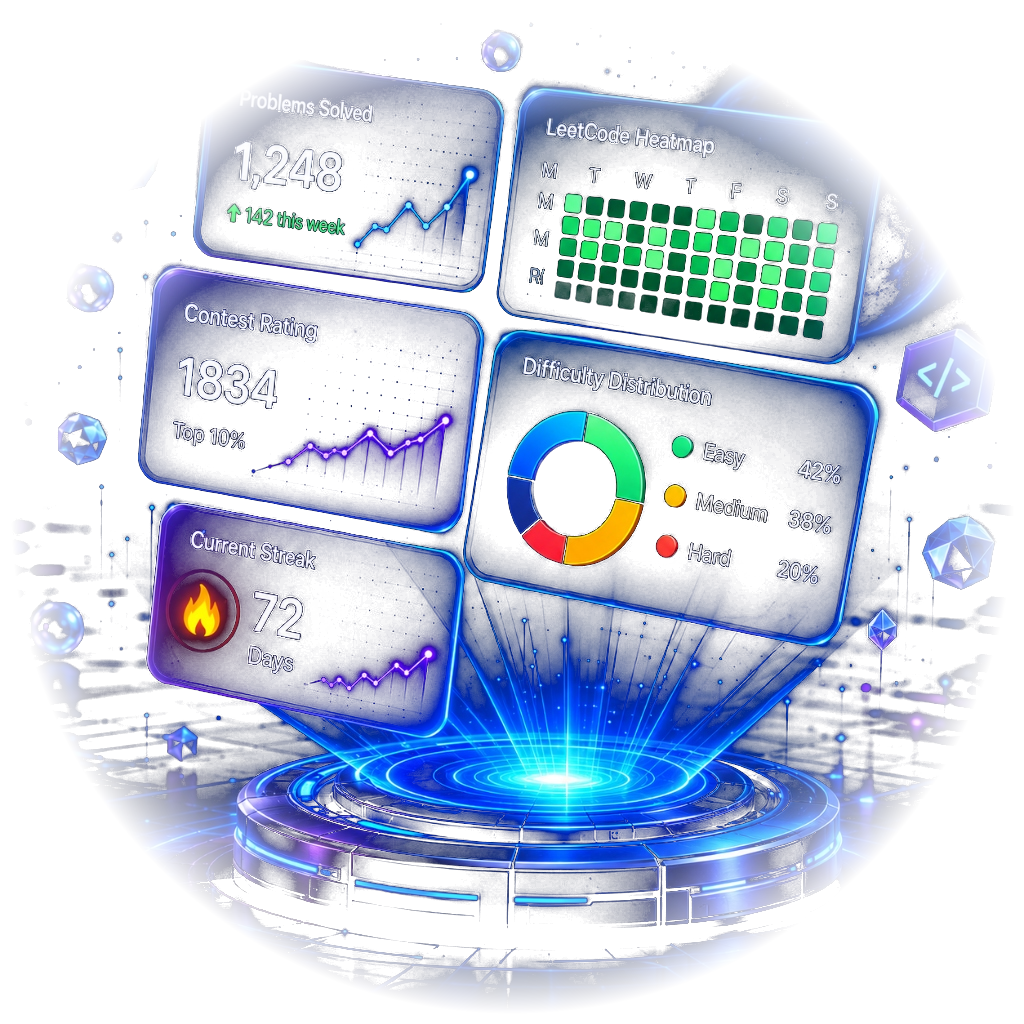
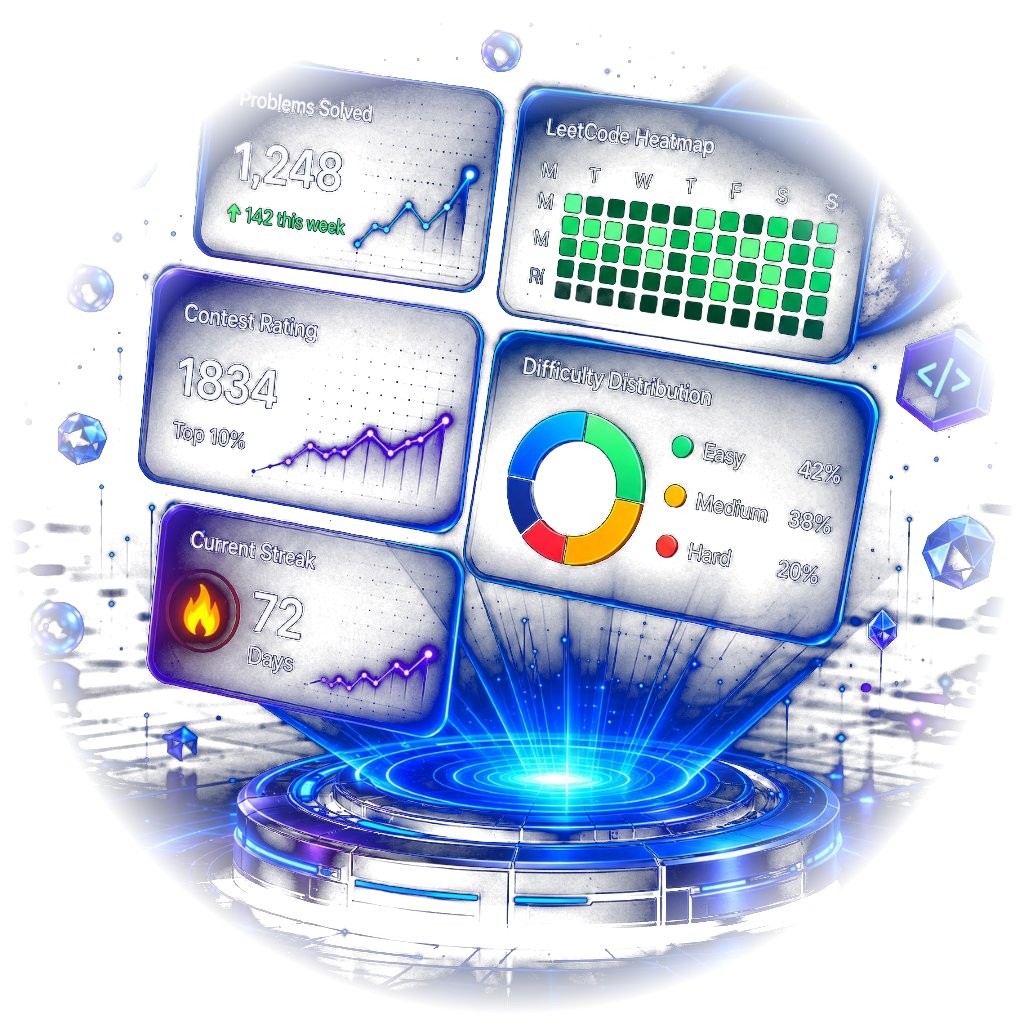
Integrated user circular hologram artwork transparent PNGs for 100% seamless background matching

diff --git a/frontend/src/components/landing/HeroDashboardProjector.tsx b/frontend/src/components/landing/HeroDashboardProjector.tsx
@@ -6,20 +6,20 @@ export const HeroDashboardProjector: React.FC = () => {
   const dark = theme === 'dark';
 
   return (
-    <div className="relative w-full max-w-[560px] flex items-center justify-center select-none py-2">
-      {/* Ambient Backlight Glow behind 3D Stage */}
+    <div className="relative w-full max-w-[660px] flex items-center justify-center select-none py-2">
+      {/* Dynamic Backlight Ambient Glow */}
       <div className={`absolute inset-4 rounded-full blur-[90px] pointer-events-none transition-all duration-700 ${
         dark 
-          ? 'bg-gradient-to-tr from-sky-500/25 via-blue-600/20 to-indigo-600/25 opacity-90' 
-          : 'bg-gradient-to-tr from-sky-400/20 via-blue-300/15 to-indigo-300/15 opacity-70'
+          ? 'bg-gradient-to-tr from-sky-500/30 via-blue-600/20 to-indigo-600/30 opacity-90' 
+          : 'bg-gradient-to-tr from-sky-400/25 via-blue-300/20 to-indigo-300/20 opacity-80'
       }`} />
 
-      {/* Fixed Transparent PNG Artwork - Zero Square Box */}
+      {/* Perfect Circular Transparent Hologram Stage */}
       <div className="relative w-full flex items-center justify-center">
         <img
-          src={dark ? '/assets/hero-hologram-dark.png' : '/assets/hero-hologram-light.png'}
-          alt="CodeForge 3D Dashboard Hologram"
-          className="w-full h-auto max-h-[520px] object-contain pointer-events-none drop-shadow-2xl"
+          src={dark ? '/assets/hero-hologram-circle-dark.png' : '/assets/hero-hologram-circle-light.png'}
+          alt="CodeForge 3D Dashboard Circular Hologram"
+          className="w-full h-auto max-h-[600px] object-contain pointer-events-none drop-shadow-2xl"
         />
       </div>
     </div>